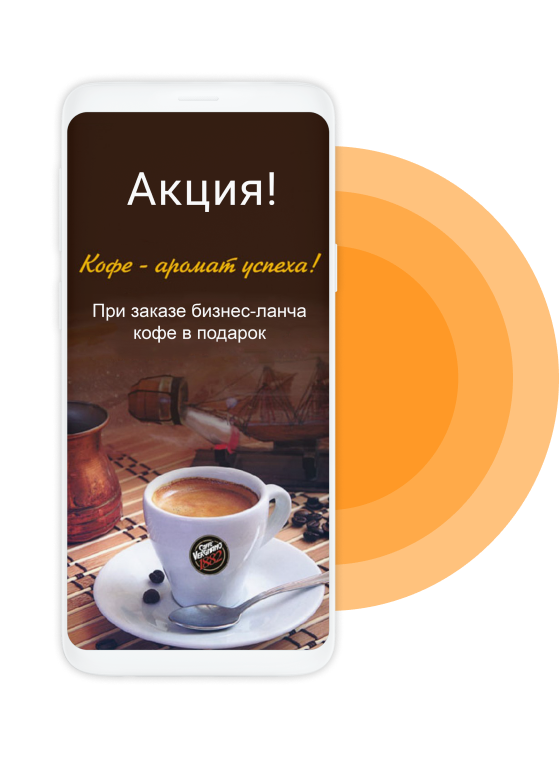
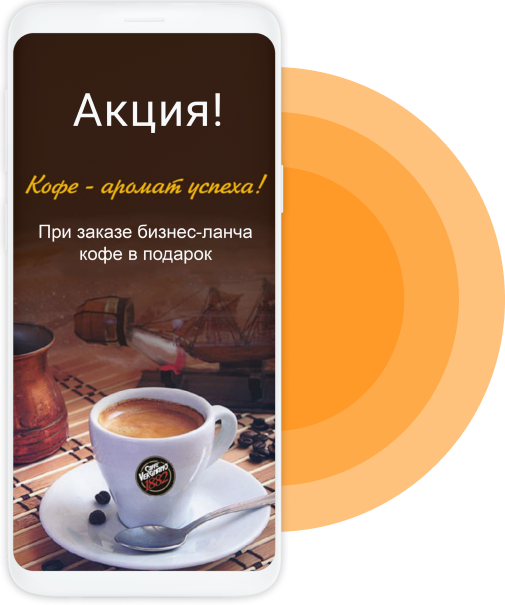
адаптировал основные рекламные блоки под 1200px и меньше

diff --git a/index.html b/index.html
@@ -150,7 +150,7 @@
         <section class="block block-1 -grey container-fluid">
             <div class="container">
                 <div class="row center">
-                    <div class="col-lg-4 offset-1 block-col">
+                    <div class="col-xl-4 offset-xl-1 col-lg-12 offset-lg-0 block-col order-lg-1">
                         <div class="block-content">
                             <div class="block-title">Увеличиваем продажи</div>
                             <div class="block-text">При помощи всплывающих баннеров 
@@ -162,8 +162,8 @@
                             <button class="block-btn">Подробнее</button>
                         </div>
                     </div>
-                    <div class="col-lg-5 offset-1 block-col">
-                        <div class="block-image-wrapper">
+                    <div class="col-xl-5 col-lg-12 offset-xl-1 offset-lg-0 block-col-1 order-lg-0">
+                        <div class="block-image-wrapper d-lg-flex justify-content-lg-center">
                             <div class="block-image">
                                 <img class="phone-image" src="img/mainpage/Group 27.png" alt="phone">
                             </div>
@@ -176,20 +176,20 @@
         <section class="block block-2 container-fluid">
             <div class="container">
                 <div class="row center">
-                    <div class="col-lg-6 block-col">
-                        <div class="block-image-wrapper">
+                    <div class="col-xl-6 col-lg-12 block-col ">
+                        <div class="block-image-wrapper d-lg-flex justify-content-lg-center">
                             <div class="block-image">
                                 <img class="phone-image" src="img/mainpage/ноут.png" alt="notebook">
                             </div>
                         </div>
                     </div>
                     
-                    <div class="col-lg-5 offset-1 block-col">
-                        <div class="block-content">
-                            <div class="block-title">Собираем <br> клиентскую базу</div>
+                    <div class="col-xl-5 col-lg-12 offset-xl-1 offset-lg-0 block-col">
+                        <div class="block-content ">
+                            <div class="block-title">Собираем клиентскую базу</div>
                             <div class="block-text">Наличие собственной клиентской базы <br>
-                                    на сегодняшний день один из ценнейших <br>
-                                        ресурсов для маркетинга и рекламы. <br>
+                                    на сегодняшний день один из ценнейших 
+                                        ресурсов для маркетинга и рекламы.
                                     Телефоны, соцсети, e-mail.</div>
                             <button class="block-btn">Подробнее</button>
                         </div>
@@ -200,7 +200,7 @@
         <section class="block block-2 -grey container-fluid">
             <div class="container">
                 <div class="row center">
-                    <div class="col-lg-4 offset-1 block-col">
+                    <div class="col-xl-4 offset-xl-1 col-lg-12 offset-lg-0 block-col order-2">
                         <div class="block-content">
                             <div class="block-title">Увеличиваем количество постоянных клиентов</div>
                             <div class="block-text">Комплекс решений помогающий регулярно привлекать гостей в заведение делая  
@@ -209,8 +209,8 @@
                             <button class="block-btn">Подробнее</button>
                         </div>
                     </div>
-                    <div class="col-lg-5 offset-1 block-col">
-                        <div class="block-image-wrapper">
+                    <div class="col-xl-5 offset-xl-1 col-lg-12 offset-lg-0 third-block order-1">
+                        <div class="block-image-wrapper d-lg-flex justify-content-lg-center">
                             <div class="block-image">
                                 <img class="phone-image" src="img/mainpage/original(1).png" alt="phone">
                             </div>
@@ -222,15 +222,15 @@
         <section class="block block-2 container-fluid">
             <div class="container">
                 <div class="row center">
-                    <div class="col-lg-5 offset-1 block-col">
-                        <div class="block-image-wrapper">
+                    <div class="col-xl-5 offset-xl-1 offset-lg-0 block-col order-lg-1">
+                        <div class="block-image-wrapper d-lg-flex justify-content-lg-center">
                             <div class="block-image">
                                 <img class="phone-image" src="img/mainpage/Group 58.png" alt="notebook">
                             </div>
                         </div>
                     </div>
                     
-                    <div class="col-lg-5  block-col">
+                    <div class="col-xl-5 offset-xl-1 offset-lg-0 block-col-4 order-lg-2">
                         <div class="block-content">
                             <div class="block-title">Привлекаем клиентов через социальные <br> сети </div>
                             <div class="block-text">Социальные сети - один из лучших инструментов 

diff --git a/css/main.css b/css/main.css
@@ -488,6 +488,44 @@
   }
 }
 
+@media (max-width: 1440px) {
+  .third-block {
+    margin-left: 0 !important;
+  }
+}
+
+@media (max-width: 1410px) {
+  .block-col-4 {
+    margin-left: 8.333333%;
+    padding-right: 8.333333%;
+  }
+}
+
+.block-content {
+  max-width: 500px;
+}
+
+@media (max-width: 1199px) {
+  .block-content {
+    display: -webkit-box;
+    display: -ms-flexbox;
+    display: flex;
+    -webkit-box-orient: vertical;
+    -webkit-box-direction: normal;
+    -ms-flex-direction: column;
+    flex-direction: column;
+    -webkit-box-align: center;
+    -ms-flex-align: center;
+    align-items: center;
+    -webkit-box-pack: center;
+    -ms-flex-pack: center;
+    justify-content: center;
+    max-width: 100%;
+    text-align: center;
+    margin-top: 40px;
+  }
+}
+
 .-grey {
   background-color: #efefef;
 }
@@ -507,6 +545,12 @@
 
 .block-2 {
   padding: 100px 0;
+}
+
+@media (max-width: 1199px) {
+  .block-2 {
+    padding: 50px 0;
+  }
 }
 
 .block-title {

diff --git a/sass/main.sass b/sass/main.sass
@@ -260,6 +260,23 @@ $font: "Raleway"
     @media( max-width: 991px)
         font-size: 20px
 /// block-grey ////
+.third-block
+    @media(max-width: 1440px)
+        margin-left: 0!important
+.block-col-4
+    @media(max-width: 1410px)
+        margin-left: 8.333333%
+        padding-right: 8.333333%
+.block-content
+    max-width: 500px
+    @media(max-width: 1199px)
+        display: flex
+        flex-direction: column
+        align-items: center
+        justify-content: center
+        max-width: 100%
+        text-align: center
+        margin-top: 40px
 .-grey
     background-color: #efefef
 .block
@@ -269,6 +286,8 @@ $font: "Raleway"
     padding: 50px 0
 .block-2
     padding: 100px 0
+    @media( max-width: 1199px)
+        padding: 50px 0
 .block-title
     color: #000000
     font-family: $title-font-bold
